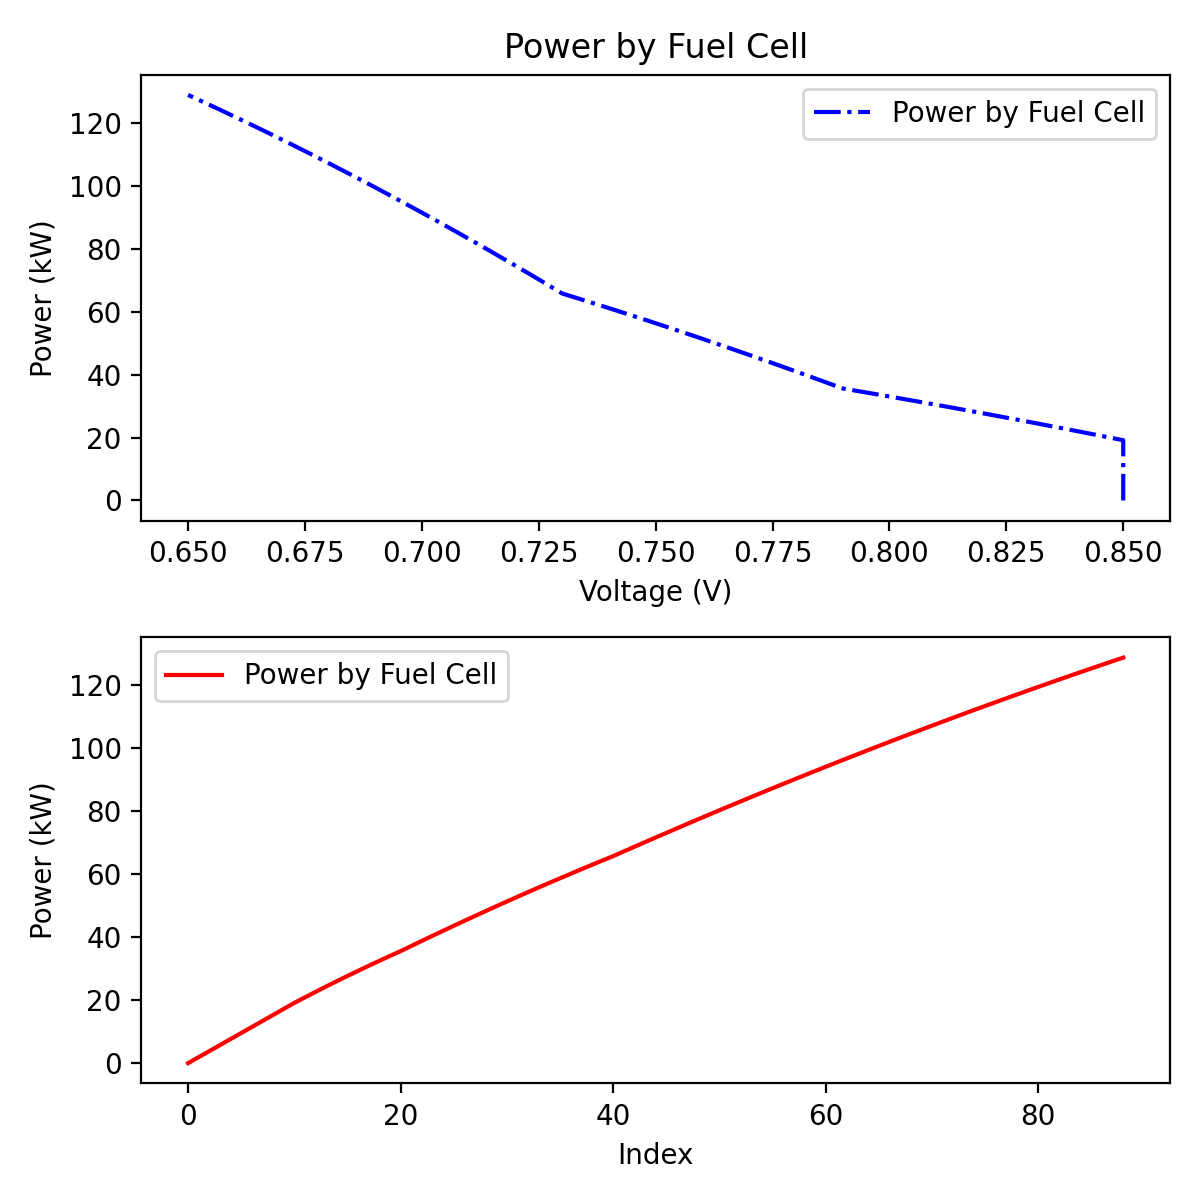
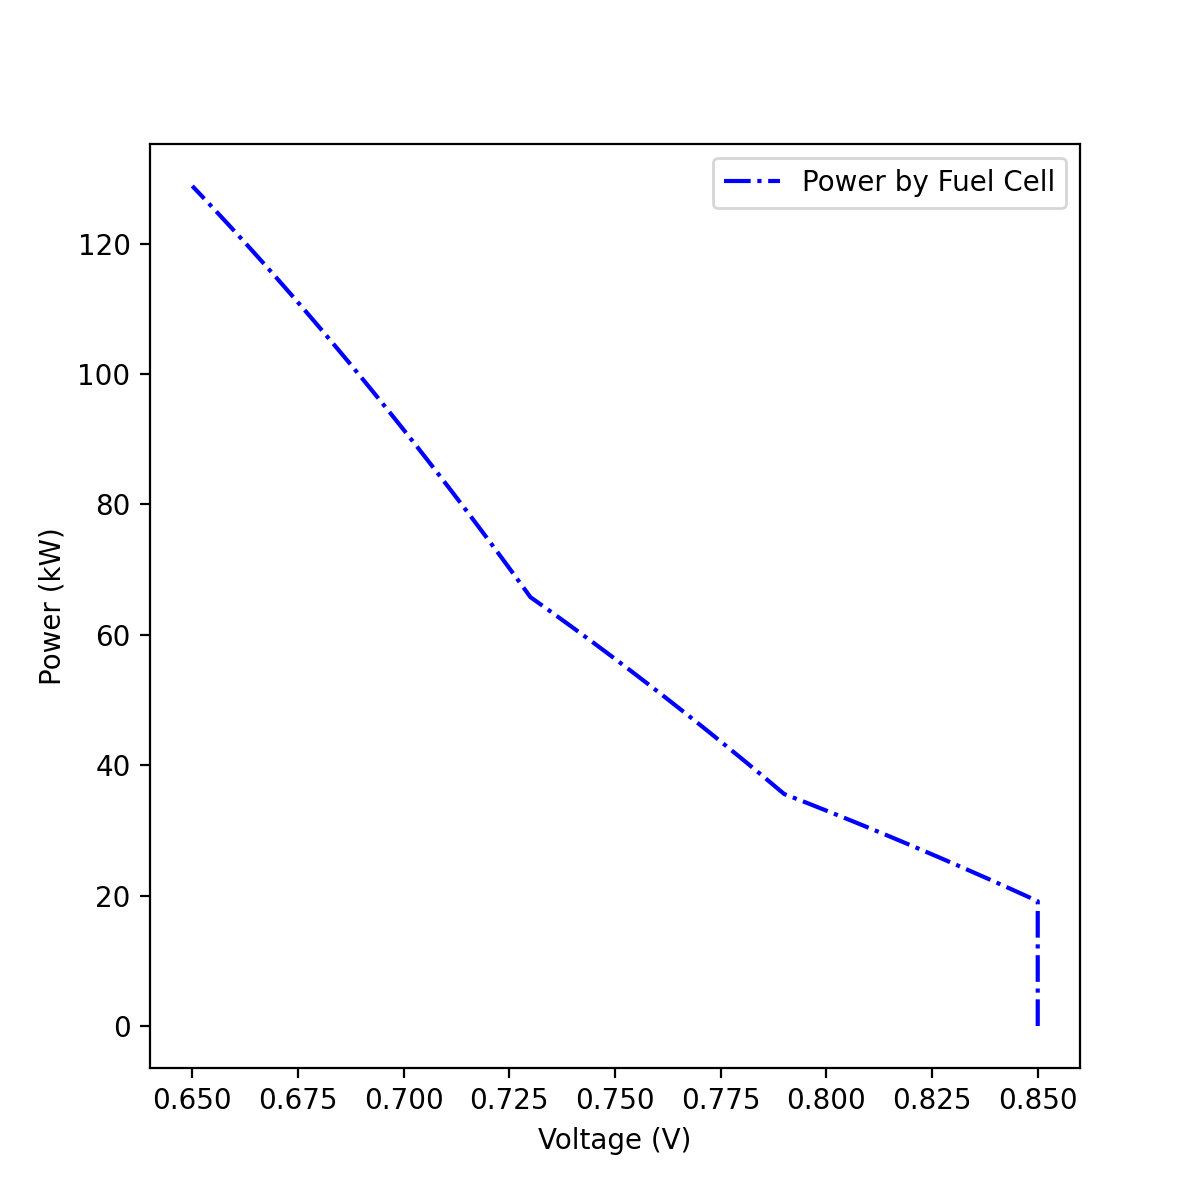
V31

diff --git a/Plot02_v3.py b/Plot02_v3.py
@@ -1,0 +1,198 @@
+import pandas as pd
+import numpy as np
+import matplotlib.pyplot as plt
+from scipy.interpolate import interp1d
+from Plot01_V1 import calculate_forces, calculate_power, simulate_soc_and_power
+from scipy.optimize import minimize_scalar
+import os
+
+# Function to load and initialize data
+def load_data(file_path):
+    data = pd.DataFrame({
+        "M_tank": [5.6],  # kg
+        "P_H2": [700],  # bar
+        "Molar_mass_dihydrogen": [2.016],  # g/mol
+        "LHV": [242],  # kJ/mol
+        "HHV": [285],  # kJ/mol
+        "H2_loss": [2],  # %
+        "Faraday_const": [96487],  # C/mol
+        "Air_stoich": [1.5],
+        "P_atm": [1],  # bar
+        "O2_molar_fraction_ambient_air": [21 / 100],  # %
+        "Air_compressor_efficiency": [60 / 100],  # %
+        "N_cell": [330],
+        "Area_stack": [273],  # cm^2
+        "Gamma": [1.4],
+        "R": [8.314],  # J/mol.K (Ideal gas constant)
+        "Ambient_temperature": [298]  # K
+    })
+    
+    df = pd.read_excel(file_path, header=0)
+    return data, df
+
+# Function to calculate compressor power
+def calculate_compressor_power(df, data):
+    P_com = np.zeros(len(df))
+    for i in range(len(df)):
+        P_com[i] = (1 / data['Air_compressor_efficiency'][0]) * \
+                    (data['Air_stoich'][0] / data['O2_molar_fraction_ambient_air'][0]) * \
+                    (data['N_cell'][0] * df['i (A/cm²)'][i]) / (4 * data['Faraday_const'][0]) * \
+                    (data['Gamma'][0] / (data['Gamma'][0] - 1)) * \
+                    (data['R'][0] * data['Ambient_temperature'][0]) * \
+                    ((df['P air (bar)'][i] / data['P_atm'][0])**((data['Gamma'][0] - 1) / data['Gamma'][0]) - 1) * data['Area_stack'][0] / 1000
+    return P_com
+
+# Function to calculate fuel cell power
+def calculate_fuel_cell_power(df, data):
+    P_fuel = np.zeros(len(df))
+    for j in range(len(df)):
+        P_fuel[j] = df['U_cell (V)'][j] * df['i (A/cm²)'][j] * data['N_cell'][0] * data['Area_stack'][0]
+    return P_fuel
+
+# Function to calculate hydrogen consumption
+def calculate_hydrogen_consumption(df, data):
+    Hydro_com = np.zeros(len(df))
+    for i in range(len(df)):
+        molar_flow = df['i (A/cm²)'][i] / (2 * data['Faraday_const'][0])
+        Hydro_com[i] = molar_flow * data['Molar_mass_dihydrogen'][0] * data['N_cell'][0] * data['Area_stack'][0]
+    return Hydro_com
+
+# Function to create interpolation for hydrogen consumption
+def fit_polynomial_hydrogen_consumption(df, Hydro_com):
+    coefficients = np.polyfit(df['i (A/cm²)'], Hydro_com, 5)
+    polynomial = np.poly1d(coefficients)
+    i_fit = np.linspace(min(df['i (A/cm²)']), max(df['i (A/cm²)']), 1000)
+    hydro_fit = polynomial(i_fit)
+    return i_fit, hydro_fit
+
+# Function to calculate WLTC hydrogen consumption
+def calculate_wltc_hydrogen_consumption(WLTC_file, df):
+    WLTC = pd.read_excel(WLTC_file, sheet_name='Sheet1', header=0)
+    speed = WLTC.iloc[:, 1].values
+    time = WLTC.iloc[:, 0].values
+
+    current_density = df['i (A/cm²)'].values
+    interp_function = interp1d(np.linspace(0, time[-1], len(current_density)), current_density, kind='linear', fill_value='extrapolate')
+    interpolated_current_density = interp_function(time)
+
+    return time, speed, interpolated_current_density
+
+# Function to compute optimization results
+def compute_results_optimization(time, Power_demand, A_cell, polarization_curve, N_cells, lb, ub, threshold):
+    # Optimization routine as in the script...
+    # Ensure lb and ub are scalars
+    results = []
+    interpolation_function = create_interpolation(polarization_curve)
+    for t in range(len(time)):
+        P_demand = Power_demand[t]
+        iteration = 0
+        U_cell = 0.6
+        while True:
+            def func(U_cell_guess):
+                I_stack = calculate_current(P_demand, U_cell_guess)
+                i_t = calculate_current_density(I_stack, A_cell)
+                interpolated_value = interpolation_function(i_t.item())
+                return (U_cell_guess - interpolated_value.item()) **2
+            res = minimize_scalar(func, bounds=(lb, ub), method='bounded')
+
+            if res.success:
+                U_cell_new = res.x
+                if abs(U_cell_new - U_cell) < threshold or iteration > 1000:
+                    break
+                U_cell = U_cell_new
+                iteration += 1
+            else:
+                break
+
+        I_stack = calculate_current(P_demand, U_cell)
+        i_t = calculate_current_density(I_stack, A_cell)
+        results.append({'Time': t, 'P_demand': P_demand, 'I_stack': I_stack, 'i_t': i_t, 'U_cell': U_cell})
+
+    return pd.DataFrame(results)
+
+# Function to calculate total hydrogen consumption and efficiency
+def calculate_hydrogen_and_efficiency(time, Result_optimization, data):
+    I_cell = np.zeros(len(time))
+    mass_hydro = np.zeros(len(time))
+    
+    for i in range(len(time)):
+        P_demand = Result_optimization['P_demand'][i]
+        U_cell = Result_optimization['U_cell'][i]
+        if P_demand < 0:
+            mass_hydro[i] = 0
+        else:
+            if U_cell > 0:
+                I_cell[i] = P_demand / (U_cell * data['N_cell'][0])
+            else:
+                I_cell[i] = 0
+            mass_hydro[i] = ((I_cell[i] * data['N_cell'][0] * data['Molar_mass_dihydrogen'][0]) / (2 * data['Faraday_const'][0])) / 1000
+    
+    total_hydrogen_consumed = np.sum(mass_hydro)
+    
+    LHV_hydrogen = data['LHV'][0] * 1000
+    Molar_mass_h2 = data['Molar_mass_dihydrogen'][0] / 1000
+    efficiency = np.zeros(len(time))
+
+    for i in range(len(time)):
+        P_fuel_cell = Result_optimization['P_demand'][i]
+        if mass_hydro[i] > 0:
+            energy_from_h2 = mass_hydro[i] * LHV_hydrogen / Molar_mass_h2
+            efficiency[i] = P_fuel_cell / energy_from_h2 if energy_from_h2 > 0 else 0
+        else:
+            efficiency[i] = efficiency[i-1]
+
+    average_efficiency = np.mean(efficiency) * 100
+    return total_hydrogen_consumed, average_efficiency, mass_hydro, efficiency
+
+# Main function to execute all steps
+def main():
+    # Load data
+    data, df = load_data('Plot02.xlsx')
+
+    # Calculate compressor power
+    P_com = calculate_compressor_power(df, data)
+
+    # Plot compressor power
+    plt.figure(figsize=(6, 6))
+    plt.plot(df['U_cell (V)'], P_com, 'y-.', label='Power of Air Compressor')
+    plt.xlabel('Voltage (V)')
+    plt.ylabel('Compressor Power (kW)')
+    plt.legend()
+    plt.savefig('Power_of_Air_compressor.png', dpi=200)
+    plt.show()
+
+    # Calculate fuel cell power
+    P_fuel = calculate_fuel_cell_power(df, data)
+
+    # Plot fuel cell power
+    plt.figure(figsize=(6, 6))
+    plt.plot(df['U_cell (V)'], P_fuel / 1000, 'b-.', label='Power by Fuel Cell')
+    plt.xlabel('Voltage (V)')
+    plt.ylabel('Power (kW)')
+    plt.legend()
+    plt.savefig('Power_of_Fuel_Cell.png', dpi=200)
+    plt.show()
+
+    # Hydrogen consumption
+    Hydro_com = calculate_hydrogen_consumption(df, data)
+
+    # Fit polynomial to hydrogen consumption
+    i_fit, hydro_fit = fit_polynomial_hydrogen_consumption(df, Hydro_com)
+
+    # Plot hydrogen consumption
+    plt.figure(figsize=(6, 6))
+    plt.plot(df['i (A/cm²)'], Hydro_com, 'bo', label='Hydrogen Consumption Data')
+    plt.plot(i_fit, hydro_fit, 'b-', label='Hydrogen Consumption (fitted)')
+    plt.xlabel('Current Density (A/cm²)')
+    plt.ylabel('Hydrogen Consumption (g/s)')
+    plt.legend()
+    plt.savefig('Hydrogen_Consumption.png', dpi=200)
+    plt.show()
+
+    # Calculate WLTC hydrogen consumption
+    time, speed, interpolated_current_density = calculate_wltc_hydrogen_consumption('WLTC.xlsx', df)
+
+    # More code following to calculate total hydrogen consumption and efficiency...
+
+if __name__ == "__main__":
+    main()
